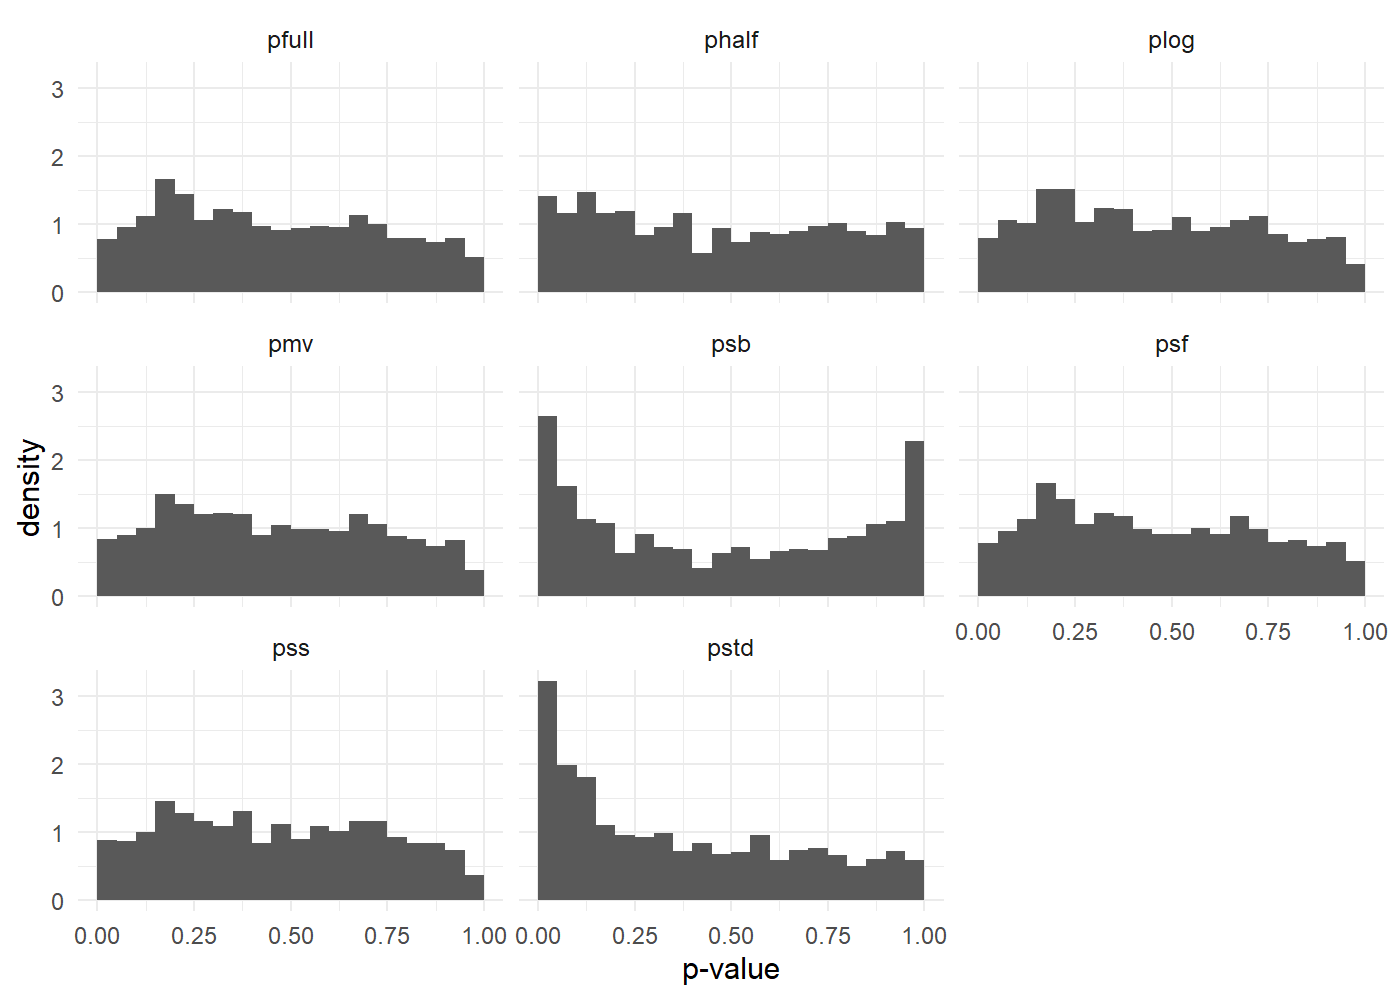
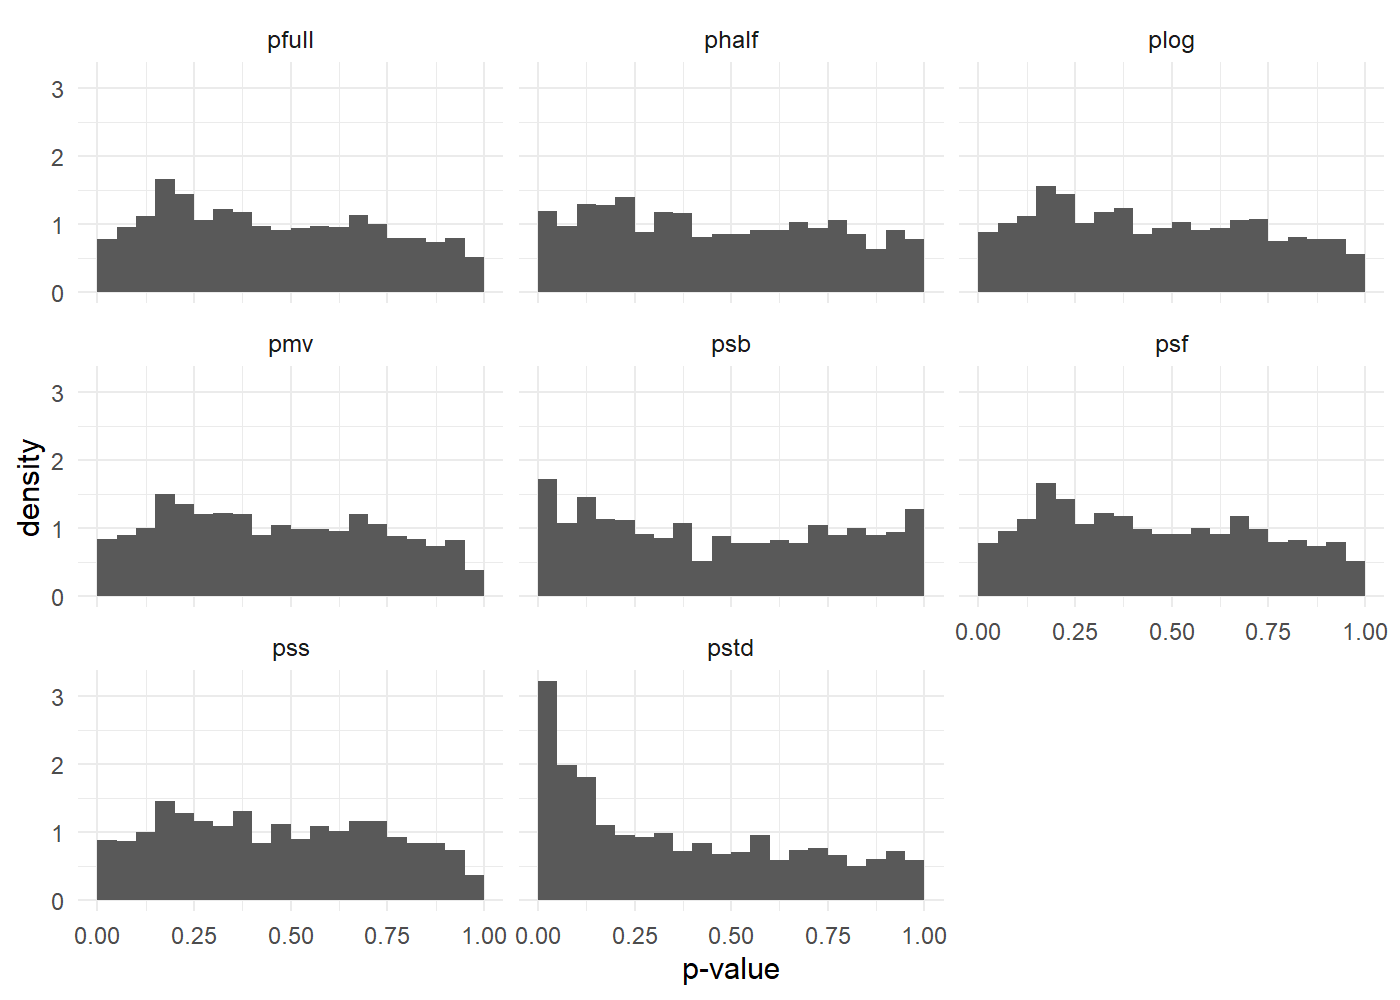
:bug: Fixed README plot.

diff --git a/README.md b/README.md
@@ -35,7 +35,7 @@ n <- 200
 object <- lavaan::sem(model, psych::bfi[1:n, 1:10])
 pvalues(object)
 #>       pstd        psb      pfull      phalf       plog        psf        pss 
-#> 0.01038449 0.01267351 0.06563318 0.04386403 0.07594468 0.06540780 0.06287733 
+#> 0.01038449 0.03688981 0.06563318 0.05535394 0.07301038 0.06540780 0.06287733 
 #>        pmv 
 #> 0.06446240
 ```
@@ -55,10 +55,10 @@ print(selector)
 
     #>                       distance  type     pvalue
     #> kolmogorov-smirnov 0.066729676   pss 0.06287733
-    #> anderson-darling   0.009065017 phalf 0.04386403
-    #> cramer-von mises   0.001610393 phalf 0.04386403
-    #> kullback-leibler   0.065092653 phalf 0.04386403
-    #> 0.05-distance      0.006000000   pss 0.06287733
+    #> anderson-darling   0.008451422 phalf 0.05535394
+    #> cramer-von mises   0.001686626 phalf 0.05535394
+    #> kullback-leibler   0.061154813 phalf 0.05535394
+    #> 0.05-distance      0.006000000  plog 0.07301038
 
 ***Note:*** The `semselector` function is time-consuming. The example
 takes approximately 6 minutes to run on a 2.5Ghz computer.
